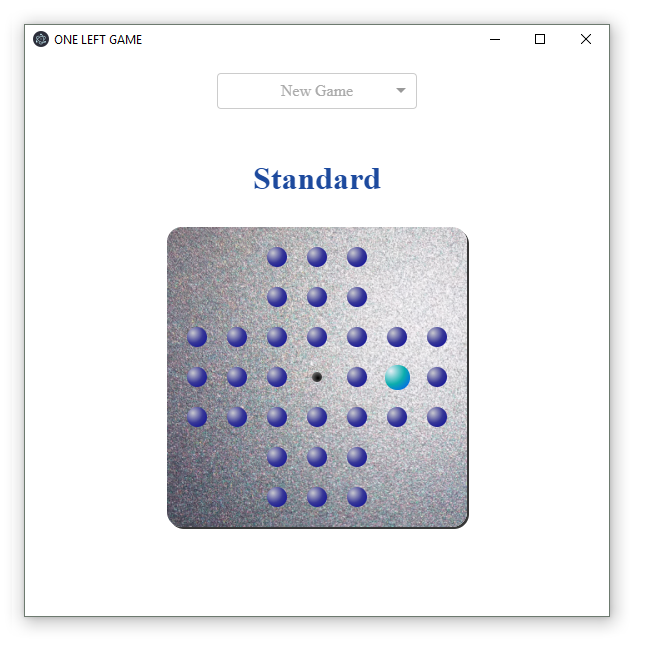
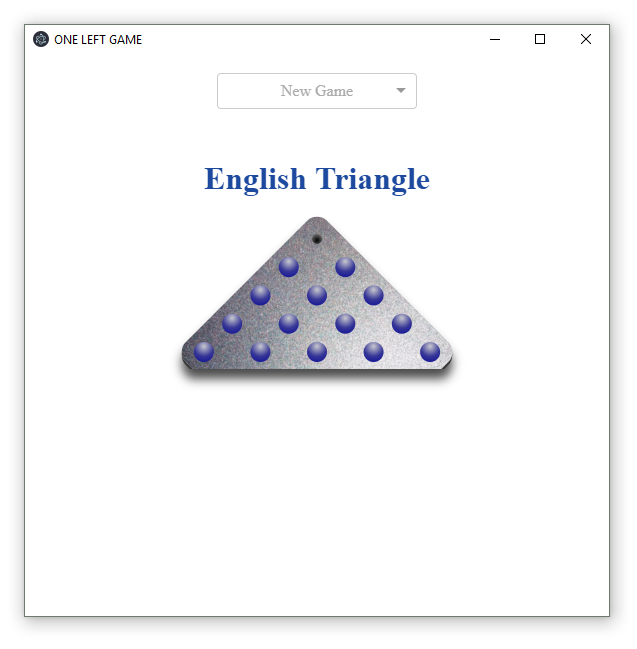
new board (English triangle), configurations with rotation and clip

diff --git a/app/components/Game.js b/app/components/Game.js
@@ -54,72 +54,31 @@ class BoardMatrix extends Component {
       />
     );
   }
+  renderRow(currentRow,cols){
+    let rowItems = []
+    for(let j=0;j<cols;j++){
+       rowItems.push(this.renderSquare(cols*currentRow + j));
+    }
+    return (
+      <div className="board-row">
+        {rowItems}
+      </div>
+    );
+  }
+
   render() {
+    // consider the board as being always a perfect square, so...
+    // take n from the length of the board configuration
+    const rows = Math.sqrt(this.props.squares.length); // totalLen=49, n=7
+    const cols = rows;
+    let response = [];
+    for(let i=0;i<rows;i++){
+      response.push(this.renderRow(i,cols));
+    }
+
     return (
       <div>
-        <div className="board-row">
-          {this.renderSquare(0)}
-          {this.renderSquare(1)}
-          {this.renderSquare(2)}
-          {this.renderSquare(3)}
-          {this.renderSquare(4)}
-          {this.renderSquare(5)}
-          {this.renderSquare(6)}
-        </div>
-        <div className="board-row">
-          {this.renderSquare(7)}
-          {this.renderSquare(8)}
-          {this.renderSquare(9)}
-          {this.renderSquare(10)}
-          {this.renderSquare(11)}
-          {this.renderSquare(12)}
-          {this.renderSquare(13)}
-        </div>
-        <div className="board-row">
-          {this.renderSquare(14)}
-          {this.renderSquare(15)}
-          {this.renderSquare(16)}
-          {this.renderSquare(17)}
-          {this.renderSquare(18)}
-          {this.renderSquare(19)}
-          {this.renderSquare(20)}
-        </div>
-        <div className="board-row">
-          {this.renderSquare(21)}
-          {this.renderSquare(22)}
-          {this.renderSquare(23)}
-          {this.renderSquare(24)}
-          {this.renderSquare(25)}
-          {this.renderSquare(26)}
-          {this.renderSquare(27)}
-        </div>
-        <div className="board-row">
-          {this.renderSquare(28)}
-          {this.renderSquare(29)}
-          {this.renderSquare(30)}
-          {this.renderSquare(31)}
-          {this.renderSquare(32)}
-          {this.renderSquare(33)}
-          {this.renderSquare(34)}
-        </div>
-        <div className="board-row">
-          {this.renderSquare(35)}
-          {this.renderSquare(36)}
-          {this.renderSquare(37)}
-          {this.renderSquare(38)}
-          {this.renderSquare(39)}
-          {this.renderSquare(40)}
-          {this.renderSquare(41)}
-        </div>
-        <div className="board-row">
-          {this.renderSquare(42)}
-          {this.renderSquare(43)}
-          {this.renderSquare(44)}
-          {this.renderSquare(45)}
-          {this.renderSquare(46)}
-          {this.renderSquare(47)}
-          {this.renderSquare(48)}
-        </div>
+        {response}
       </div>
     );
   }
@@ -127,13 +86,18 @@ class BoardMatrix extends Component {
 
 // renders the board square
 function GameTable(props){
+  const rotation = props.rotation; //props.boardName==='English Triangle'?  'rotate(45deg)' : 'rotate(0deg)' ;
+  const clipPath = props.clipPath;//props.boardName==='English Triangle'? 'polygon(0% 0%, 112% 0%, 0% 112%)' : null;
+  const rows = Math.sqrt(props.squares.length); // totalLen=49, n=7
   return(
-    <div className="Square-board">
-      <BoardMatrix
-      squares={props.squares} 
-      chosenPin={props.chosenPin}
-      onClick={props.onClick}
-        />
+    <div className='ShadowContainer'>
+      <div className="Square-board" style={{width : 40*rows, height : 40*rows, transform:rotation, clipPath:clipPath}}>
+        <BoardMatrix
+        squares={props.squares} 
+        chosenPin={props.chosenPin}
+        onClick={props.onClick}
+          />
+      </div>
     </div>
   );
 }
@@ -148,7 +112,9 @@ class Game extends Component {
     super(props);
     this.state = {
       boardName: 'Standard',
-      squares: board.Standard.slice(),
+      squares: board.Standard.Pins.slice(),
+      rotation: board.Standard.Rotation,
+      clipPath: board.Standard.ClipPath,
       chosenPin: null
     };
   }
@@ -156,7 +122,9 @@ class Game extends Component {
   restart(){
     this.setState({
       boardName: 'Standard',
-      squares: board.Standard.slice(),
+      squares: board.Standard.Pins.slice(),
+      rotation: board.Standard.Rotation,
+      clipPath: board.Standard.ClipPath,
       chosenPin: null
     });
   }
@@ -165,13 +133,16 @@ class Game extends Component {
     // has a pin between?
     // +-14 diff (vertical)  [pin = +-7]
     // +-2 diff (horizontal) [pin = +-1]
+
+    const numHorizontalPins = Math.sqrt(this.state.squares.length);
+
     let middlePinPosition;
     const diff = destiny-origin;//24-10=14
-    if(diff === 14 && this.state.squares[origin+7] ==='p'){ // down
-      middlePinPosition = origin+7;
+    if(diff === (2*numHorizontalPins) && this.state.squares[origin+numHorizontalPins] ==='p'){ // down
+      middlePinPosition = origin+numHorizontalPins;
     }
-    else if(diff === -14 && this.state.squares[origin-7] ==='p' ) { // up
-      middlePinPosition = origin-7;
+    else if(diff === -(2*numHorizontalPins) && this.state.squares[origin-numHorizontalPins] ==='p' ) { // up
+      middlePinPosition = origin-numHorizontalPins;
     }
     else if(diff === 2 && this.state.squares[origin+1] ==='p' ) { // right
       middlePinPosition = origin+1;
@@ -217,7 +188,9 @@ class Game extends Component {
     const boardName = event.value;
     this.setState({
       boardName: boardName,
-      squares: board[boardName].slice(),
+      squares: board[boardName].Pins.slice(),
+      rotation: board[boardName].Rotation,
+      clipPath: board[boardName].ClipPath,
       chosenPin: null
     });
   }
@@ -226,6 +199,9 @@ class Game extends Component {
     const self = this;
     const squares = self.state.squares;
     const chosenPin = self.state.chosenPin;
+    const boardName = self.state.boardName;
+    const rotation = self.state.rotation;
+    const clipPath = self.state.clipPath;
     const boardNameList= Object.keys(board).map(function(name){
       return ({ value: name, label: name });
     })
@@ -248,6 +224,9 @@ class Game extends Component {
         <GameTable
           squares={squares}
           chosenPin={chosenPin}
+          boardName={boardName}
+          rotation={rotation}
+          clipPath={clipPath}
           onClick={(i) => self.handleClick(i)}
          />
       </div>

diff --git a/app/config/boards.js b/app/config/boards.js
@@ -1,5 +1,6 @@
 const BOARDS = {
-    Standard : [
+    Standard : {
+      Pins:[
       'e','e','p','p','p','e','e',
       'e','e','p','p','p','e','e',
       'p','p','p','p','p','p','p',
@@ -8,7 +9,11 @@ const BOARDS = {
       'e','e','p','p','p','e','e',
       'e','e','p','p','p','e','e',
       ],
-    Cross : [
+      Rotation: 'rotate(0deg)',
+      ClipPath: 'polygon(0% 25%, 25% 25%,25% 0%, 75% 0%, 75% 25%, 100% 25%, 100% 75%, 75% 75%, 75% 100%, 25% 100%, 25% 75%, 0% 75%)'
+    }
+    ,
+    Cross : {Pins:[
       'e','e','h','h','h','e','e',
       'e','e','h','p','h','e','e',
       'h','h','p','p','p','h','h',
@@ -16,8 +21,12 @@ const BOARDS = {
       'h','h','h','p','h','h','h',
       'e','e','h','h','h','e','e',
       'e','e','h','h','h','e','e',
-      ],
-    Plus : [
+    ],
+    Rotation: 'rotate(0deg)',
+    ClipPath: 'polygon(0% 25%, 25% 25%,25% 0%, 75% 0%, 75% 25%, 100% 25%, 100% 75%, 75% 75%, 75% 100%, 25% 100%, 25% 75%, 0% 75%)'
+  }
+  ,
+    Plus : {Pins:[
       'e','e','h','h','h','e','e',
       'e','e','h','p','h','e','e',
       'h','h','h','p','h','h','h',
@@ -25,8 +34,12 @@ const BOARDS = {
       'h','h','h','p','h','h','h',
       'e','e','h','p','h','e','e',
       'e','e','h','h','h','e','e',
-      ],
-    Bench : [
+    ],
+    Rotation: 'rotate(0deg)',
+    ClipPath: 'polygon(0% 25%, 25% 25%,25% 0%, 75% 0%, 75% 25%, 100% 25%, 100% 75%, 75% 75%, 75% 100%, 25% 100%, 25% 75%, 0% 75%)'
+  }
+  ,
+    Bench : {Pins:[
       'e','e','p','p','p','e','e',
       'e','e','p','p','p','e','e',
       'h','h','p','p','p','h','h',
@@ -34,8 +47,12 @@ const BOARDS = {
       'h','h','h','h','h','h','h',
       'e','e','h','h','h','e','e',
       'e','e','h','h','h','e','e',
-      ],
-    Arrow : [
+    ],
+    Rotation: 'rotate(0deg)',
+    ClipPath: 'polygon(0% 25%, 25% 25%,25% 0%, 75% 0%, 75% 25%, 100% 25%, 100% 75%, 75% 75%, 75% 100%, 25% 100%, 25% 75%, 0% 75%)'
+  }
+  ,
+    Arrow : {Pins:[
       'e','e','h','p','h','e','e',
       'e','e','p','p','p','e','e',
       'h','p','p','p','p','p','h',
@@ -43,8 +60,12 @@ const BOARDS = {
       'h','h','h','p','h','h','h',
       'e','e','p','p','p','e','e',
       'e','e','p','p','p','e','e',
-      ],
-    Pyramid : [
+    ],
+    Rotation: 'rotate(0deg)',
+    ClipPath: 'polygon(0% 25%, 25% 25%,25% 0%, 75% 0%, 75% 25%, 100% 25%, 100% 75%, 75% 75%, 75% 100%, 25% 100%, 25% 75%, 0% 75%)'
+  }
+  ,
+    Pyramid : {Pins:[
       'e','e','h','h','h','e','e',
       'e','e','h','p','h','e','e',
       'h','h','p','p','p','h','h',
@@ -53,7 +74,11 @@ const BOARDS = {
       'e','e','h','h','h','e','e',
       'e','e','h','h','h','e','e',
     ],
-    Diamond : [
+    Rotation: 'rotate(0deg)',
+    ClipPath: 'polygon(0% 25%, 25% 25%,25% 0%, 75% 0%, 75% 25%, 100% 25%, 100% 75%, 75% 75%, 75% 100%, 25% 100%, 25% 75%, 0% 75%)'
+  }
+  ,
+    Diamond : {Pins:[
       'e','e','h','p','h','e','e',
       'e','e','p','p','p','e','e',
       'h','p','p','p','p','p','h',
@@ -62,7 +87,11 @@ const BOARDS = {
       'e','e','p','p','p','e','e',
       'e','e','h','p','h','e','e',
     ],
-    Square : [
+    Rotation: 'rotate(0deg)',
+    ClipPath: 'polygon(0% 25%, 25% 25%,25% 0%, 75% 0%, 75% 25%, 100% 25%, 100% 75%, 75% 75%, 75% 100%, 25% 100%, 25% 75%, 0% 75%)'
+  }
+  ,
+    "Big Square" : {Pins:[
       'p','p','p','p','p','p','p',
       'p','p','p','p','p','p','p',
       'p','p','p','h','p','p','p',
@@ -71,7 +100,11 @@ const BOARDS = {
       'p','p','p','p','p','p','p',
       'p','p','p','p','p','p','p',
     ],
-    French : [
+    Rotation: 'rotate(0deg)',
+    ClipPath: null
+  }
+  ,
+    French : {Pins:[
       'e','e','p','p','p','e','e',
       'e','p','p','p','p','p','e',
       'p','p','p','h','p','p','p',
@@ -79,7 +112,22 @@ const BOARDS = {
       'p','p','p','p','p','p','p',
       'e','p','p','p','p','p','e',
       'e','e','p','p','p','e','e',
-    ]
+    ],
+    Rotation: 'rotate(0deg)',
+    ClipPath: 'polygon(0 33.33%, 33.33% 0, 66.66% 0, 100% 33.33%, 100% 66.66%, 66.66% 100%, 33.33% 100%, 0 66.66%)'
+  }
+  ,
+    "English Triangle" : {Pins:[
+      'h','p','p','p','p',
+      'p','p','p','p','e',
+      'p','p','p','e','e',
+      'p','p','e','e','e',
+      'p','e','e','e','e'
+    ],
+    Rotation: 'rotate(45deg)',
+    ClipPath: 'polygon(0% 0%, 112% 0%, 0% 112%)'
+  }
+
   }
 
   export default BOARDS;

diff --git a/app/app.global.css b/app/app.global.css
@@ -12,13 +12,13 @@
   }
   
   .Square-board{
-    height: 280px;
-    width: 280px;
+    /*height: 280px;*/
+    /*width: 280px;*/
     background-image: url("../resources/textures/metalzoom.png") ;
     background-repeat: no-repeat, repeat;
     background-size: cover;
-    margin: 30px auto;
-    padding: 10px;
+    margin: 55px auto;
+    padding: 0px;
     box-shadow: 2px 2px rgb(55, 55, 55);
     border-radius: 15px;
   }
@@ -83,4 +83,8 @@
 
   .boardNameLabel{
     color: #1d4a9e;
+  }
+
+  .ShadowContainer{
+    filter: drop-shadow(0px 10px 5px rgba(0,0,0,0.7));
   }
